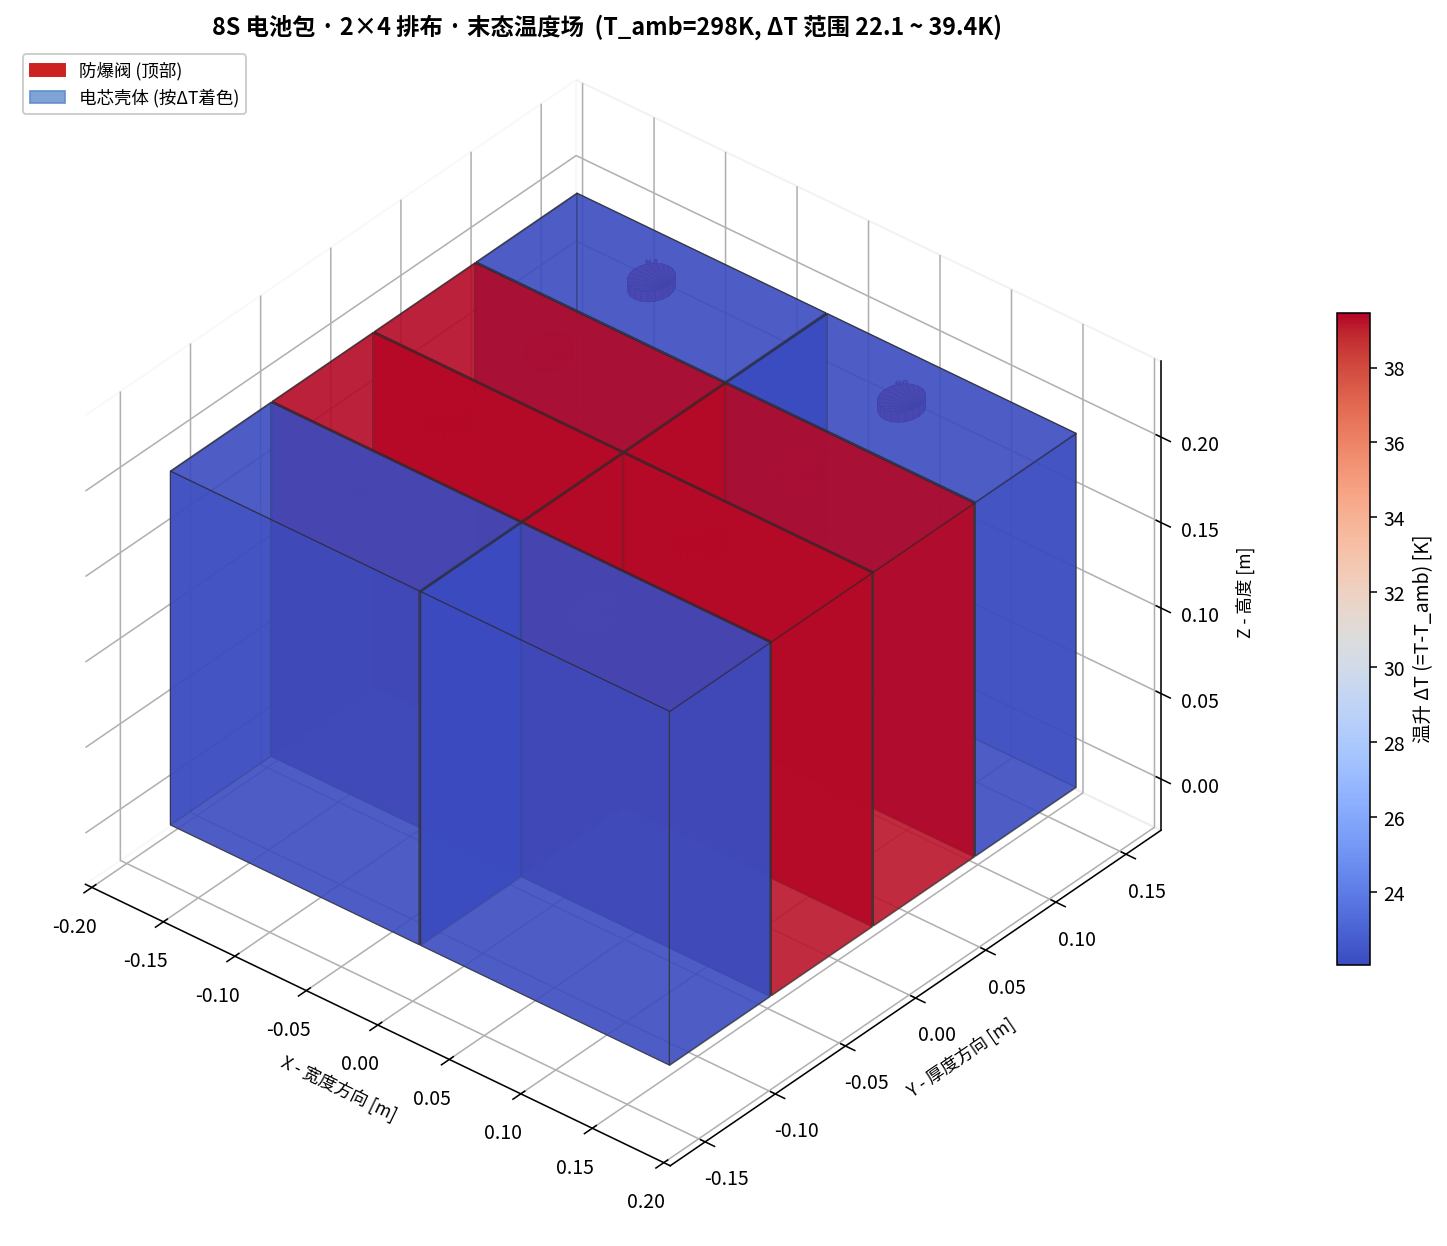
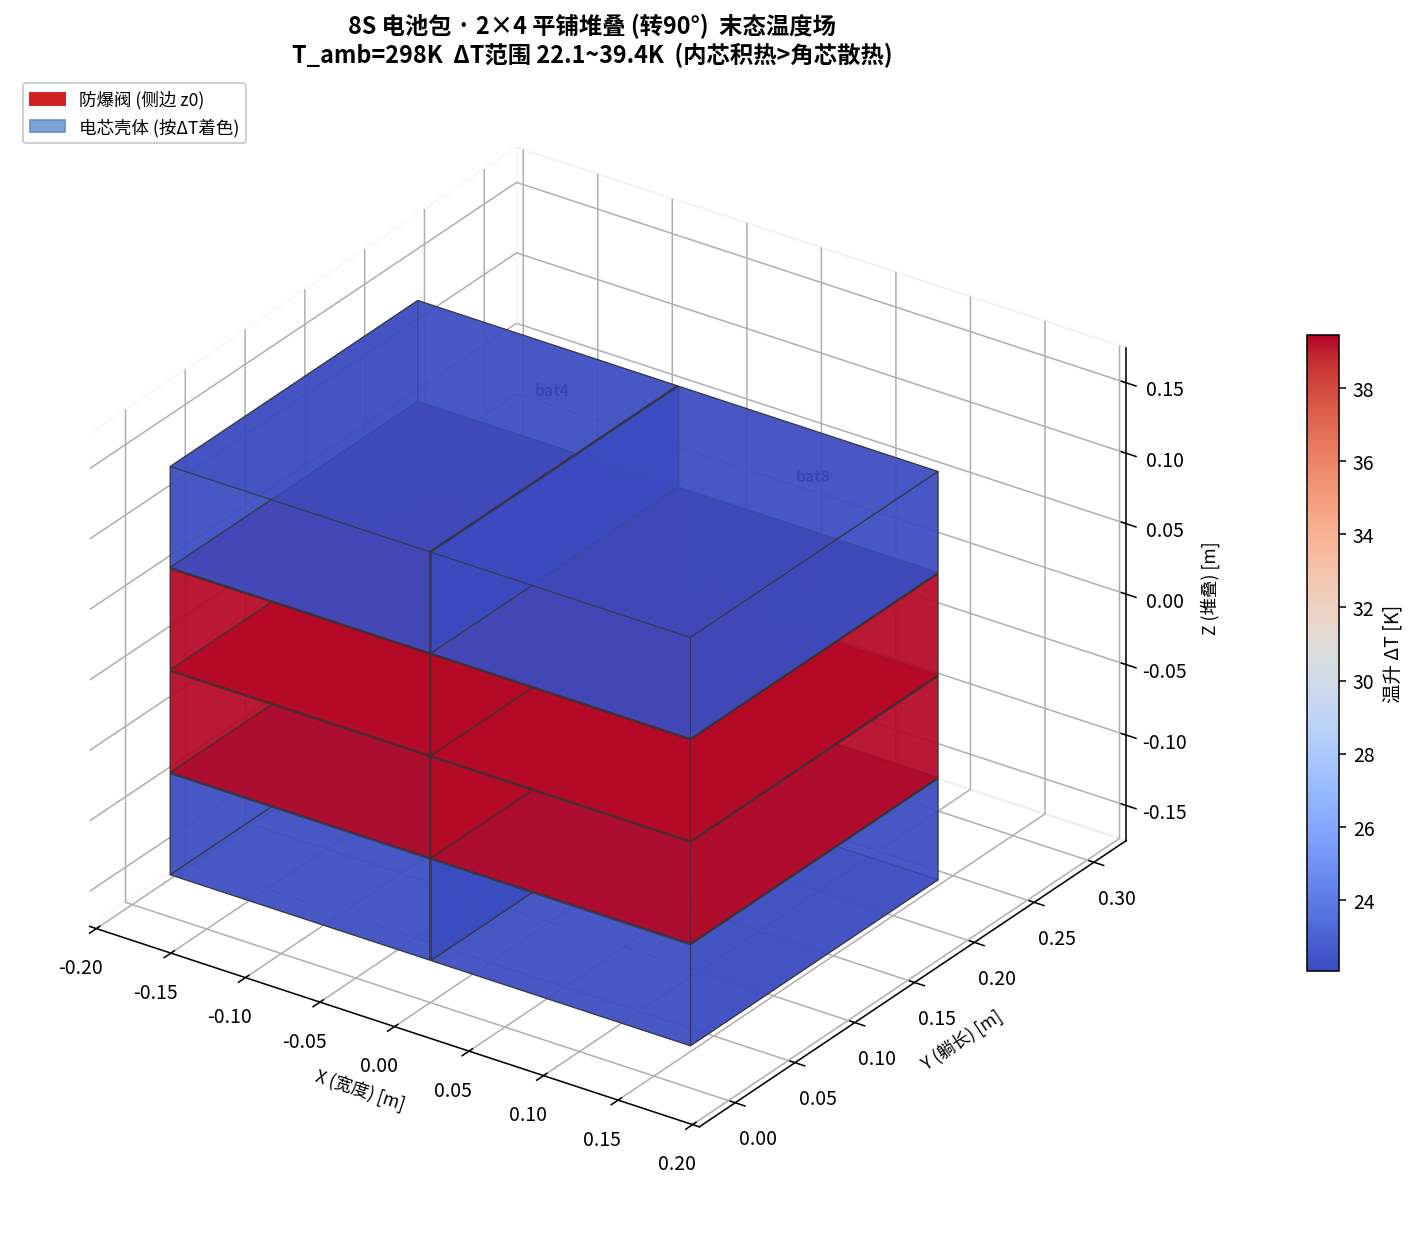
fix: 3D 渲染修正电芯堆叠方向——转90°平铺堆叠
之前: 电芯竖立 Z 向上(207mm高), 大面 XZ(174×207) 朝侧
现在: 电芯躺平 Y 方向为长(207mm), 厚度Z是71.7mm, 大面 XZ 水平堆叠
       ↳ 4芯沿 Z 堆叠, 2 行沿 X 排列
       ↳ 防爆阀位于 z0 侧边(71.7×207 面)顶部

物理正确: 电芯的 storage_array 通常为正方扁块, 不像电池组那样立放

热模型(lumped) 不受影响——总导热与暴露面积相同

diff --git a/ecm_pack/examples/demo_8s_foam_thermal.py b/ecm_pack/examples/demo_8s_foam_thermal.py
@@ -269,14 +269,25 @@ def main():
 
 def _draw_pack_3d(T_vals, save_path, cell_L=0.174, cell_W=0.0717, cell_H=0.207,
                   gap_X=0.001, gap_Y=0.001, T_amb=298.15):
-    """绘制 2×4 电池包三维图：各芯着色温度，顶面标注防爆阀(红色圆柱)。"""
+    """绘制 2×4 电池包三维图——电芯转 90° 平铺堆叠、大面(174×207)相贴。
+
+    物理布局 (电芯宽 X, 长 Z, 厚 Y):
+      - X 方向: 2 行 × 174mm = 350mm
+      - Z 方向: 4 列 × (71.7mm + 1mm泡棉) = 290mm (堆叠)
+      - Y 方向: 207mm (电芯长度横躺)
+      ─ 防爆阀: 每芯侧边(71.7×207面)顶部凸起
+    """
     from mpl_toolkits.mplot3d.art3d import Poly3DCollection
     import matplotlib.patches as mpatches
-    from itertools import product
 
     T = np.asarray(T_vals, float).ravel()
     n_rows, n_cols = 2, 4
     T_rise = T - T_amb
+
+    # 电芯尺寸重映射: 大面(174×207)水平, 71.7mm厚度堆叠
+    cX, cZ, cH = cell_L, cell_H, cell_W   # cH=71.7 是堆叠方向的单芯厚度
+    # Z方向堆叠间距
+    stack_pitch = cH + gap_Y
 
     fig = plt.figure(figsize=(15, 9))
     ax = fig.add_subplot(111, projection='3d')
@@ -285,67 +296,72 @@ def _draw_pack_3d(T_vals, save_path, cell_L=0.174, cell_W=0.0717, cell_H=0.207,
     cmap = plt.cm.coolwarm
     norm = plt.Normalize(vmin=max(T_rise.min(), 0), vmax=T_rise.max() + 0.1)
 
-    # Camera: 抬高看顶面
-    ax.view_init(elev=35, azim=-50)
+    # 视线: 抬高、旋转
+    ax.view_init(elev=28, azim=-55)
 
-    # 中心绘制 (推荐视角：cells 在 X-Y 平面，Z 朝上)
+    offset_Xbase = -((n_rows-1) * (cX + gap_X) + cX) / 2
+    offset_Zbase = -((n_cols-1) * stack_pitch + cH) / 2
+
     for row in range(n_rows):
         for col in range(n_cols):
             idx = row * n_cols + col
-            x0 = row * (cell_L + gap_X) - 0.5 * (cell_L * n_rows + gap_X * (n_rows-1))
-            y0 = col * (cell_W + gap_Y) - 0.5 * (cell_W * n_cols + gap_Y * (n_cols-1))
-            z0 = 0.0
-            Lx, Ly, Lz = cell_L, cell_W, cell_H
+            x0 = offset_Xbase + row * (cX + gap_X)
+            z0 = offset_Zbase + col * stack_pitch  # 堆叠方向在 Z
+            y0 = 0.0  # 电芯平躺, 底面 Y=0
 
             tr = T_rise[idx]
             face_color = cmap(norm(tr))
 
+            # 8 个顶点: (x, y, z) 对应 (宽方向, 横躺长, 堆叠厚)
             p = np.array([
-                [x0,      y0,      z0],
-                [x0 + Lx, y0,      z0],
-                [x0 + Lx, y0 + Ly, z0],
-                [x0,      y0 + Ly, z0],
-                [x0,      y0,      z0 + Lz],
-                [x0 + Lx, y0,      z0 + Lz],
-                [x0 + Lx, y0 + Ly, z0 + Lz],
-                [x0,      y0 + Ly, z0 + Lz],
+                [x0,       y0,       z0],         # 0
+                [x0 + cX,  y0,       z0],         # 1
+                [x0 + cX,  y0,       z0 + cH],    # 2
+                [x0,       y0,       z0 + cH],    # 3
+                [x0,       y0 + cZ,  z0],         # 4 (cZ=207 是电芯长边横躺)
+                [x0 + cX,  y0 + cZ,  z0],         # 5
+                [x0 + cX,  y0 + cZ,  z0 + cH],    # 6
+                [x0,       y0 + cZ,  z0 + cH],    # 7
             ])
 
-            # 只画 4 个侧面 (顶面留给防爆阀更突出)
-            side_faces = [
-                [p[0], p[1], p[5], p[4]],  # 前面
-                [p[2], p[3], p[7], p[6]],  # 后面
-                [p[0], p[3], p[7], p[4]],  # 左面
-                [p[1], p[2], p[6], p[5]],  # 右面
+            # 大面 (水平): 底面 0-1-2-3, 顶面 4-5-6-7 — 颜色由温度决定
+            large_faces = [
+                [p[0], p[1], p[2], p[3]],  # 底面
+                [p[4], p[5], p[6], p[7]],  # 顶面
             ]
-            poly_sides = Poly3DCollection(side_faces, alpha=0.78, linewidth=0.6,
-                                          edgecolor='#333333', facecolor=face_color)
-            ax.add_collection3d(poly_sides)
+            # 小面 (厚度方): 侧面 — 稍浅显示
+            thin_faces = [
+                [p[0], p[1], p[5], p[4]],  # x0 面
+                [p[2], p[3], p[7], p[6]],  # x1 面
+                [p[0], p[3], p[7], p[4]],  # z0 面
+                [p[1], p[2], p[6], p[5]],  # z1 面
+            ]
 
-            # 顶面 (单独画，比较浅以突出防爆阀)
-            top_face = [[p[4], p[5], p[6], p[7]]]
-            poly_top = Poly3DCollection(top_face, alpha=0.55, linewidth=0.6,
-                                        edgecolor='#222', facecolor=face_color)
-            ax.add_collection3d(poly_top)
+            poly_large = Poly3DCollection(large_faces, alpha=0.70, linewidth=0.6,
+                                          edgecolor='#333', facecolor=face_color)
+            ax.add_collection3d(poly_large)
 
-            # 底面
-            bot_face = [[p[0], p[1], p[2], p[3]]]
-            poly_bot = Poly3DCollection(bot_face, alpha=0.55, linewidth=0.4,
-                                        edgecolor='#444', facecolor=cmap(norm(max(tr-2, 0))))
-            ax.add_collection3d(poly_bot)
+            poly_thin = Poly3DCollection(thin_faces, alpha=0.78, linewidth=0.6,
+                                         edgecolor='#333', facecolor=face_color)
+            ax.add_collection3d(poly_thin)
 
-            # ── 防爆阀：圆柱顶在顶面中心 ──
-            vcx, vcy, vcz = x0 + Lx/2, y0 + Ly/2, z0 + Lz
-            valve_r = 0.012  # 12mm 半径——明显可见
-            valve_h = 0.006  # 突起 6mm
-            segs = 20
+            # ── 防爆阀: 在侧边 (z0 或 z1 面) 的顶部 ──
+            # 每芯放一个 防爆阀 在面向用户的脸部方向
+            # 简单处理: 所有芯防爆阀 放在 z0 面中央
+            valve_face_center_x = x0 + cX / 2
+            valve_face_center_y = y0 + cZ * 0.6   # 偏上位置
+            valve_face_z = z0
+            valve_protrude = 0.005  # 向外突出 5mm
+
+            valve_r = 0.010
+            segs = 16
             theta = np.linspace(0, 2*np.pi, segs+1)
-            vx = vcx + valve_r * np.cos(theta)
-            vy = vcy + valve_r * np.sin(theta)
-            vzb = np.full_like(vx, vcz)
-            vzt = np.full_like(vx, vcz + valve_h)
+            vx = valve_face_center_x + valve_r * np.cos(theta)
+            vy = valve_face_center_y + valve_r * np.sin(theta)
+            vzb = np.full_like(vx, valve_face_z)
+            vzt = np.full_like(vx, valve_face_z - valve_protrude)
 
-            # 圆柱侧面 (梯形带)
+            # 圆柱侧面
             for i in range(segs):
                 quad = [
                     (vx[i],   vy[i],   vzb[i]),
@@ -357,72 +373,52 @@ def _draw_pack_3d(T_vals, save_path, cell_L=0.174, cell_W=0.0717, cell_H=0.207,
                     [quad], alpha=0.95, facecolor='#cc2222', edgecolor='#770000',
                     linewidth=0.5))
 
-            # 阀盖 (顶部圆)
+            # 阀盖圆
             for i in range(1, segs):
-                tri = [
-                    (vx[0], vy[0], vzt[0]),
-                    (vx[i], vy[i], vzt[i]),
-                    (vx[i+1], vy[i+1], vzt[i+1]),
-                ]
                 ax.add_collection3d(Poly3DCollection(
-                    [tri], alpha=1.0, facecolor='#dd3333', edgecolor='#770000',
-                    linewidth=0.4))
+                    [[(vx[0], vy[0], vzt[0]),
+                      (vx[i], vy[i], vzt[i]),
+                      (vx[i+1], vy[i+1], vzt[i+1])]],
+                    alpha=1.0, facecolor='#dd3333', edgecolor='#770000',
+                    linewidth=0.3))
 
-            # 阀底盘 (贴顶面的小圆环以加强视觉)
-            for i in range(segs):
-                quad = [
-                    (vx[i],   vy[i],   vcz),
-                    (vx[i+1], vy[i+1], vcz),
-                    (vx[i+1]*0.98 - vcx*0.02 + vcx, vy[i+1]*0.98 - vcy*0.02 + vcy, vcz),
-                    (vx[i]*0.98 - vcx*0.02 + vcx, vy[i]*0.98 - vcy*0.02 + vcy, vcz),
-                ]
-                # 简化：直接画一个稍微下沉的圆盘，提升视觉层次
+            # ── 编号标注 ──
+            ax.text(x0 + cX/2, y0 + cZ + 0.004, z0 + cH/2,
+                    f'bat{idx+1}', ha='center', va='center',
+                    fontsize=8, fontweight='bold')
 
-            # ── 文本：前立面标注 + 顶面角编号 ──
-            ax.text(x0 + 0.002, y0 + Ly/2, z0 + Lz*0.5,
-                    f'bat{idx+1}', ha='left', va='center', fontsize=8,
-                    fontweight='bold', color='white', zorder=10)
-            ax.text(vcx, vcy, vcz + valve_h + 0.003, f'#{idx+1}',
-                    ha='center', va='bottom', fontsize=7, color='#aa0000',
-                    fontweight='bold')
-
-    # 颜色条
+    # 色条
     sm = plt.cm.ScalarMappable(cmap=cmap, norm=norm)
     sm.set_array([])
     cbar = fig.colorbar(sm, ax=ax, shrink=0.55, pad=0.07)
-    cbar.set_label('温升 ΔT (=T-T_amb) [K]', fontsize=10)
+    cbar.set_label('温升 ΔT [K]', fontsize=10)
 
-    # 轴标签
-    ax.set_xlabel('X - 宽度方向 [m]', fontsize=9)
-    ax.set_ylabel('Y - 厚度方向 [m]', fontsize=9)
-    ax.set_zlabel('Z - 高度 [m]', fontsize=9)
+    ax.set_xlabel('X (宽度) [m]', fontsize=9)
+    ax.set_ylabel('Y (躺长) [m]', fontsize=9)
+    ax.set_zlabel('Z (堆叠) [m]', fontsize=9)
 
-    # 自适应轴范围
-    x_span = (cell_L * n_rows + gap_X * (n_rows-1))
-    y_span = (cell_W * n_cols + gap_Y * (n_cols-1))
-    z_span = cell_H
+    x_span = (cX * n_rows + gap_X * (n_rows-1))
+    z_span = (cH * n_cols + gap_Y * (n_cols-1))
     pad = 0.03
-    ax.set_xlim(-x_span/2 - pad, x_span/2 + pad)
-    ax.set_ylim(-y_span/2 - pad, y_span/2 + pad)
-    ax.set_zlim(-pad, z_span * 1.18)
+    ax.set_xlim(offset_Xbase - pad, offset_Xbase + x_span + pad)
+    ax.set_zlim(offset_Zbase - pad, offset_Zbase + z_span + pad)
+    ax.set_ylim(-pad, cZ + pad * 4)
 
-    # 关闭默认网格、加粗轴
     ax.grid(True, alpha=0.3)
     ax.xaxis.pane.fill = False
     ax.yaxis.pane.fill = False
     ax.zaxis.pane.fill = False
 
-    # 图例
     legend_handles = [
-        mpatches.Patch(color='#cc2222', label='防爆阀 (顶部)'),
+        mpatches.Patch(color='#cc2222', label='防爆阀 (侧边 z0)'),
         mpatches.Patch(color='#5a8ac9', alpha=0.78, label='电芯壳体 (按ΔT着色)'),
     ]
-    ax.legend(handles=legend_handles, loc='upper left',
-              fontsize=9, framealpha=0.95)
+    ax.legend(handles=legend_handles, loc='upper left', fontsize=9, framealpha=0.95)
 
-    T_min_rise, T_max_rise = T_rise.min(), T_rise.max()
-    ax.set_title(f'8S 电池包 · 2×4 排布 · 末态温度场  '
-                 f'(T_amb={T_amb:.0f}K, ΔT 范围 {T_min_rise:.1f} ~ {T_max_rise:.1f}K)',
+    T_min, T_max = T_rise.min(), T_rise.max()
+    ax.set_title(f'8S 电池包 · 2×4 平铺堆叠 (转90°)  末态温度场\n'
+                 f'T_amb={T_amb:.0f}K  ΔT范围 {T_min:.1f}~{T_max:.1f}K  '
+                 f'(内芯积热>角芯散热)',
                  fontsize=12, fontweight='bold')
 
     fig.tight_layout(rect=[0, 0, 0.95, 1])
